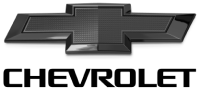
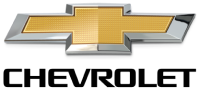
Ready to deploy

diff --git a/index.html b/index.html
@@ -191,6 +191,11 @@
                                 <h3>Jaqsy PREMIUM</h3>
                                 <p>Реклама</p>
                             </div>
+                            <div class="player__play text-left">
+                                <a href="https://www.youtube.com/watch?v=MVnsbVCIj5o" target="_blank">
+                                    <img src="./img/playsmall.png" alt="">
+                                </a>
+                            </div>
                             <video width="664" height="372" loop muted class="pr1_1">
                                 <source src="./videos/jaqsy.mp4" type="video/mp4">
                             </video>
@@ -200,6 +205,11 @@
                             <div class="player__text">
                                 <h3>chevrolet traverse</h3>
                                 <p>Реклама</p>
+                            </div>
+                            <div class="player__play text-left">
+                                <a href="https://www.youtube.com/watch?v=sK8G5ELYmEY" target="_blank">
+                                    <img src="./img/playsmall.png" alt="">
+                                </a>
                             </div>
                             <video width="601" height="372" loop muted class="pr1_2">
                                 <source src="./videos/chev.mp4" type="video/mp4">
@@ -215,6 +225,11 @@
                                     equinox</h3>
                                 <p>Реклама</p>
                             </div>
+                            <div class="player__play text-left">
+                                <a href="https://www.youtube.com/watch?v=wilH2lxMWwM" target="_blank">
+                                    <img src="./img/playsmall.png" alt="">
+                                </a>
+                            </div>
                             <video width="447" height="372" loop muted class="pr1_3">
                                 <source src="./videos/chev2.mp4" type="video/mp4">
                             </video>
@@ -224,6 +239,11 @@
                             <div class="player__text">
                                 <h3>GhostEnergy</h3>
                                 <p>Реклама</p>
+                            </div>
+                            <div class="player__play text-left">
+                                <a href="https://www.youtube.com/watch?v=nFya6zszPJA" target="_blank">
+                                    <img src="./img/playsmall.png" alt="">
+                                </a>
                             </div>
                             <video width="485" height="372" loop muted class="pr1_4">
                                 <source src="./videos/ghost.mp4" type="video/mp4">
@@ -235,6 +255,11 @@
                                 <h3>Leto<br>
                                     coffee</h3>
                                 <p>Реклама</p>
+                            </div>
+                            <div class="player__play text-left">
+                                <a href="https://www.youtube.com/watch?v=zIlAmgYx1v0" target="_blank">
+                                    <img src="./img/playsmall.png" alt="">
+                                </a>
                             </div>
                             <video width="328" height="372" loop muted class="pr1_5">
                                 <source src="./videos/leto.mp4" type="video/mp4">
@@ -253,6 +278,11 @@
                                     <h3>yesterday music</h3>
                                     <p>2d/3d графика</p>
                                 </div>
+                                <div class="player__play text-left">
+                                    <a href="https://www.youtube.com/watch?v=ggnKbxSquQg" target="_blank">
+                                        <img src="./img/playsmall.png" alt="">
+                                    </a>
+                                </div>
                                 <video width="664" height="710" loop muted class="pr2_1">
                                     <source src="./videos/music.mp4" type="video/mp4">
                                 </video>
@@ -265,6 +295,11 @@
                                     <h3>Connected home</h3>
                                     <p>2d/3d графика</p>
                                 </div>
+                                <div class="player__play text-left">
+                                    <a href="https://www.youtube.com/watch?v=wilH2lxMWwM" target="_blank">
+                                        <img src="./img/playsmall.png" alt="">
+                                    </a>
+                                </div>
                                 <video width="601" height="352" loop muted class="pr2_2">
                                     <source src="./videos/home.mp4" type="video/mp4">
                                 </video>
@@ -274,6 +309,11 @@
                                 <div class="player__text">
                                     <h3>GhostEnergy</h3>
                                     <p>2d/3d графика</p>
+                                </div>
+                                <div class="player__play text-left">
+                                    <a href="https://www.youtube.com/watch?v=nFya6zszPJA" target="_blank">
+                                        <img src="./img/playsmall.png" alt="">
+                                    </a>
                                 </div>
                                 <video width="601" height="352" loop muted class="pr2_3">
                                     <source src="./videos/ghost2.mp4" type="video/mp4">
@@ -293,6 +333,11 @@
                                     <h3>ala art residency</h3>
                                     <p>видео отчет</p>
                                 </div>
+                                <div class="player__play text-left">
+                                    <a href="https://www.youtube.com/watch?v=vYNTojlmqUE" target="_blank">
+                                        <img src="./img/playsmall.png" alt="">
+                                    </a>
+                                </div>
                                 <video width="664" height="749" loop muted class="pr3_1">
                                     <source src="./videos/ala.mp4" type="video/mp4">
                                 </video>
@@ -304,6 +349,11 @@
                                 <div class="player__text" style="top:5%">
                                     <h3>honey skin</h3>
                                     <p>видео отчет</p>
+                                </div>
+                                <div class="player__play text-left">
+                                    <a href="https://www.youtube.com/watch?v=SqlXuFkWAYw" target="_blank">
+                                        <img src="./img/playsmall.png" alt="">
+                                    </a>
                                 </div>
                                 <video width="601" height="749" loop muted class="pr3_1">
                                     <source src="./videos/honey.mp4" type="video/mp4">
@@ -325,6 +375,11 @@
                                     <h3>connected home</h3>
                                     <p>имиджевый ролик</p>
                                 </div>
+                                <div class="player__play text-left">
+                                    <a href="https://www.youtube.com/watch?v=AFK9H3qWfLo" target="_blank">
+                                        <img src="./img/playsmall.png" alt="">
+                                    </a>
+                                </div>
                                 <video width="664" height="749" loop muted class="pr3_1">
                                     <source src="./videos/home2.mp4" type="video/mp4">
                                 </video>
@@ -336,6 +391,11 @@
                                 <div class="player__text" style="top:5%">
                                     <h3>lexus nx</h3>
                                     <p>имиджевый ролик</p>
+                                </div>
+                                <div class="player__play text-left">
+                                    <a href="https://www.youtube.com/watch?v=Q7gxIr_VF6s" target="_blank">
+                                        <img src="./img/playsmall.png" alt="">
+                                    </a>
                                 </div>
                                 <video width="601" height="749" loop muted class="pr3_2">
                                     <source src="./videos/lexus.mp4" type="video/mp4">
@@ -357,6 +417,9 @@
                                     <h3>connected home</h3>
                                     <p>имиджевый ролик</p>
                                 </div>
+                                <div class="player__play text-left">
+                                    <img src="./img/playsmall.png" alt="">
+                                </div>
                                 <video width="664" height="749" loop muted class="pr3_1">
                                     <source src="./videos/home2.mp4" type="video/mp4">
                                 </video>
@@ -368,6 +431,9 @@
                                 <div class="player__text" style="top:5%">
                                     <h3>lexus nx</h3>
                                     <p>имиджевый ролик</p>
+                                </div>
+                                <div class="player__play text-left">
+                                    <img src="./img/playsmall.png" alt="">
                                 </div>
                                 <video width="601" height="749" loop muted class="pr3_2">
                                     <source src="./videos/lexus.mp4" type="video/mp4">

diff --git a/styles/style.css b/styles/style.css
@@ -392,9 +392,15 @@ main {
 }
 
 .promoblock {
-    border: 3px solid #FFFFFF;
+    border: 2px solid #FFFFFF;
     border-radius: 10px;
+    background-image: url('../img/showrealpromo.png');
+    background-size: cover;
+    background-repeat: no-repeat;
+    border-top: 0;
+    border-left: 0;
 }
+
 
 .promoblock .preview {
     padding: 170px 0;
@@ -500,6 +506,16 @@ main {
     left: 5%;
 }
 
+.player__play {
+    opacity: 0;
+    position: absolute;
+    bottom: 10%;
+    left: 5%;
+    transition: all .3s ease;
+    z-index: 100;
+}
+
+
 .player__text h3 {
     font-family: var(--unb);
     font-weight: 500;
@@ -522,6 +538,10 @@ video {
     object-fit: none;
     cursor: pointer;
     border-radius: 10px;
+}
+
+.player:hover .player__play {
+    opacity: 1;
 }
 
 .select__active {
@@ -578,9 +598,6 @@ video {
     transition: all .3s ease;
 }
 
-.clients__block:hover {
-    background: #FFEC00;
-}
 
 .clients__block:nth-child(3) {
     padding-left: 30px;
@@ -596,6 +613,25 @@ video {
 
 .clients__block img {
     max-width: 100%;
+    -webkit-filter: grayscale(1);
+    filter: gray;
+    filter: grayscale(1);
+    transition: all .3s ease;
+}
+
+.clients__block:nth-child(3) img,
+.clients__block:nth-child(4) img,
+.clients__block:nth-child(5) img,
+/* .clients__block:nth-child(6) img, */
+.clients__block:nth-child(7) img {
+
+    filter: brightness(0%);
+}
+
+.clients__block:hover img {
+    -webkit-filter: none;
+    filter: none;
+    filter: none;
 }
 
 footer {

diff --git a/js/script.js b/js/script.js
@@ -4,12 +4,12 @@
   videos.forEach(video => {
     video.addEventListener('mouseover', () => {
       video.play();
-      video.setAttribute('controls', 'controls')
+     
     });
   
     video.addEventListener('mouseout', () => {
       video.pause();
-      video.removeAttribute('controls')
+      
     });
   });
  
